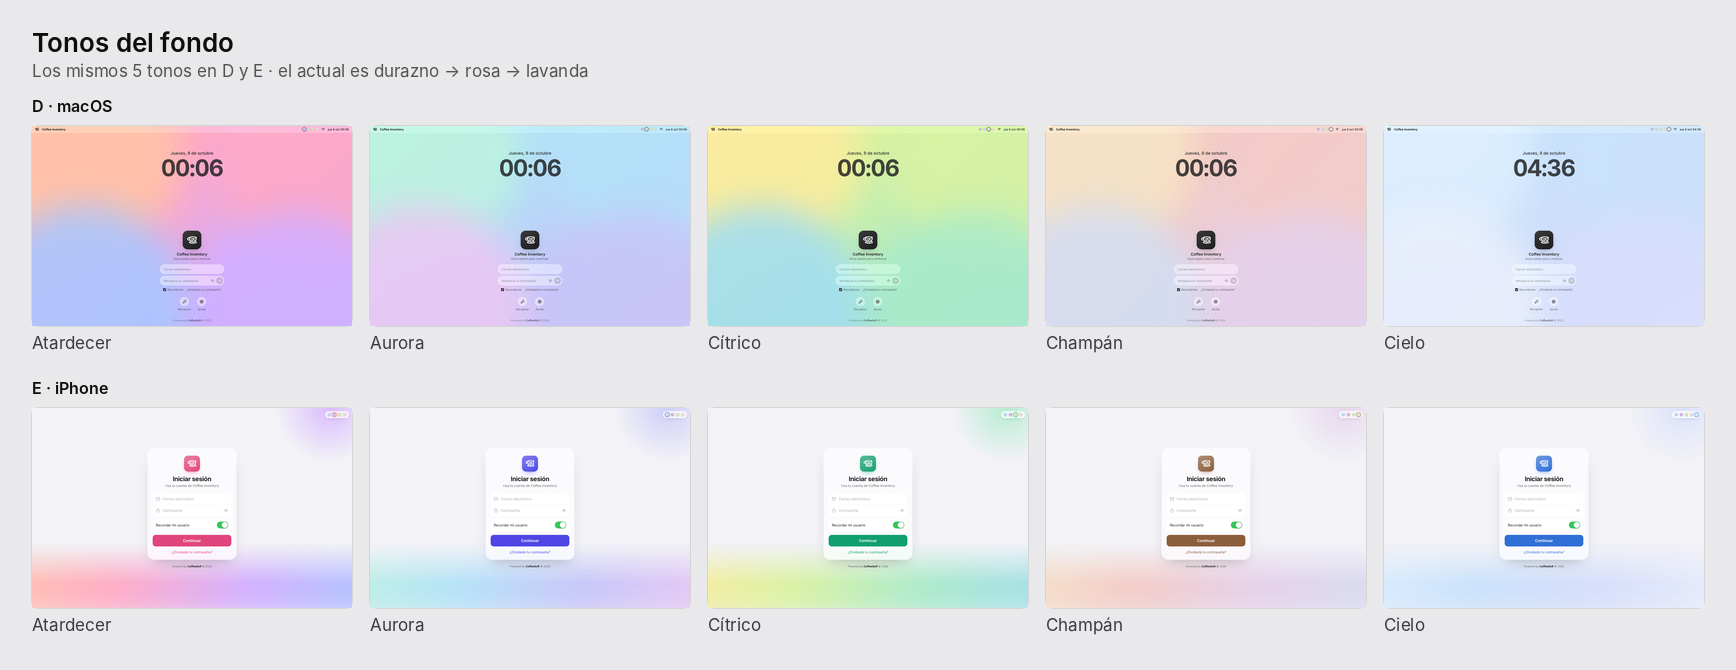
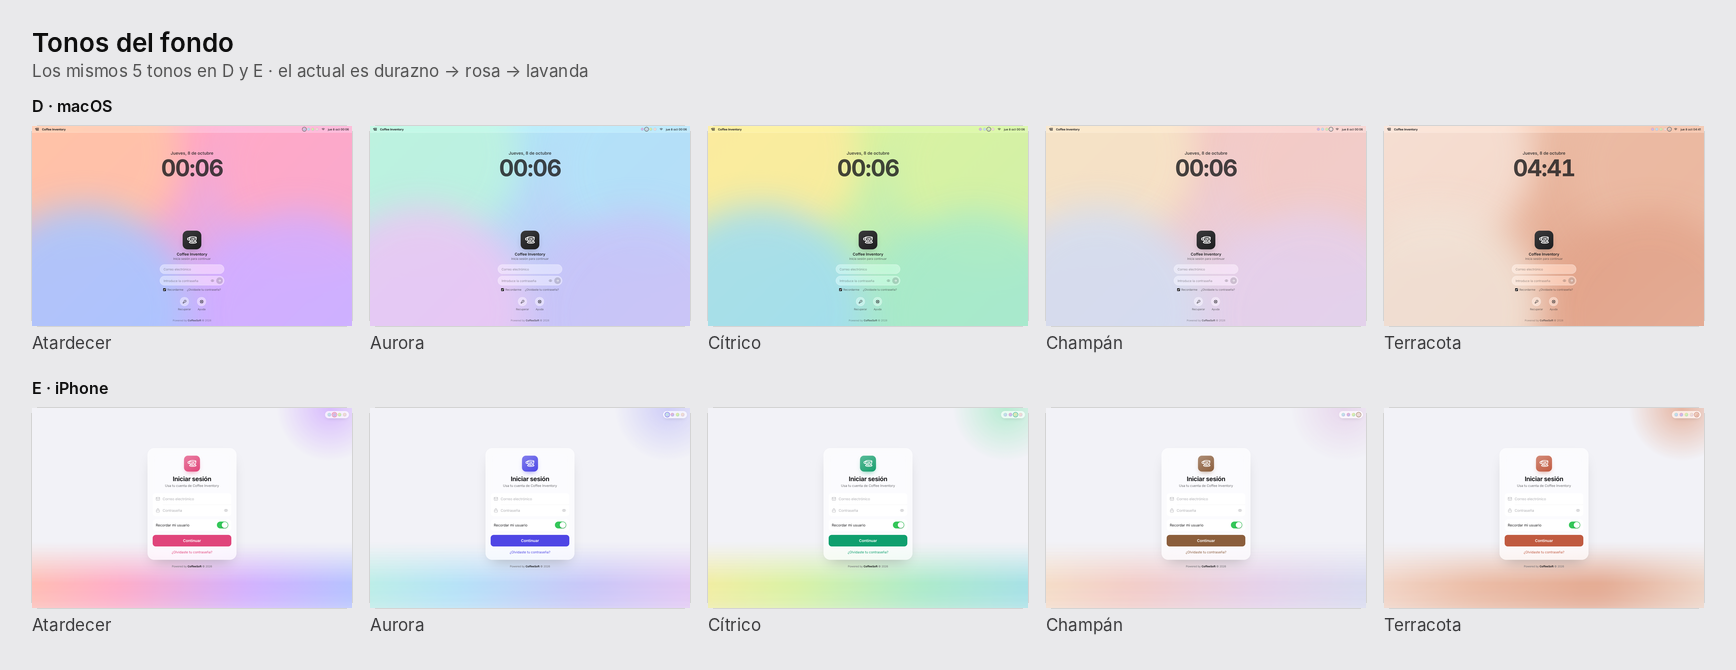
docs(inventory): tono Terracota en lugar de Cielo en los logins D y E
Arcilla clara, terracota y arena con el #C05A40 de la marca como acento.
El avatar de ejemplo toma el color del tono.

Claude-Session: https://claude.ai/code/session_01TNUyeHvp6K8aBBkezGxEN5

diff --git a/inventory/acceso/templates/login/login-d-macos.html b/inventory/acceso/templates/login/login-d-macos.html
@@ -6,7 +6,7 @@
     avatar, campos tipo píldora y el botón de flecha dentro de la contraseña.
     Con clave incorrecta el campo tiembla, como en macOS (solo CSS: :has(.is-invalid)).
 
-    Tonos: --t1..--t4 pintan el fondo y --accent el foco (Cielo = azul suave). El selector de la barra
+    Tonos: --t1..--t4 pintan el fondo y --accent el foco (Terracota = el acento de la marca). El selector de la barra
     es solo para elegir tono en la maqueta; en producción se fija uno.
 
     Contrato con acceso/src/js/index.js (no renombrar):
@@ -39,7 +39,7 @@
         :root[data-tone="aurora"]    { --t1: #BDF2DF; --t2: #B3E2F8; --t3: #C7C5F8; --t4: #EAC7F3; --accent: #4F46E5; }
         :root[data-tone="citrico"]   { --t1: #FBEB9E; --t2: #D9F2A2; --t3: #A9EAC9; --t4: #A2DDF0; --accent: #0F9F6E; }
         :root[data-tone="champan"]   { --t1: #F6E3C6; --t2: #F3CBC6; --t3: #E5D0EA; --t4: #D3DDF1; --accent: #8B5E3C; }
-        :root[data-tone="cielo"]     { --t1: #DCEEFF; --t2: #C9E2FB; --t3: #D6DDFB; --t4: #E9EEFB; --accent: #2F6FD6; }
+        :root[data-tone="terracota"] { --t1: #F5DED2; --t2: #EBBBA4; --t3: #E3A68D; --t4: #F1E2D6; --accent: #C05A40; }
 
         * { margin: 0; padding: 0; box-sizing: border-box; }
 
@@ -521,7 +521,7 @@
             { key: 'aurora',    name: 'Aurora',    a: '#BDF2DF', b: '#C7C5F8' },
             { key: 'citrico',   name: 'Cítrico',   a: '#FBEB9E', b: '#A9EAC9' },
             { key: 'champan',   name: 'Champán',   a: '#F6E3C6', b: '#E5D0EA' },
-            { key: 'cielo',     name: 'Cielo',     a: '#DCEEFF', b: '#C9E2FB' }
+            { key: 'terracota', name: 'Terracota', a: '#F5DED2', b: '#E3A68D' }
         ];
 
         function setTone(key) {
@@ -560,7 +560,7 @@
         if (new URLSearchParams(location.search).get('recordado') === '1') {
             $('usuario').value = 'maria@cafecentral.mx';
             $('emailField').hidden = true;
-            $('rememberedAvatar').style.background = '#E0457B';
+            $('rememberedAvatar').style.background = 'var(--accent)';
             $('rememberedName').textContent = 'María López';
             $('rememberedEmail').textContent = 'maria@cafecentral.mx';
             $('rememberedUser').hidden = false;

diff --git a/inventory/acceso/templates/login/login-e-ios.html b/inventory/acceso/templates/login/login-e-ios.html
@@ -40,7 +40,7 @@
         :root[data-tone="atardecer"] { --t1: #FFC3A8; --t2: #FFA9C6; --t3: #D2AEFF; --t4: #A9C6FF; --accent: #E0457B; }
         :root[data-tone="citrico"]   { --t1: #FBEB9E; --t2: #D9F2A2; --t3: #A9EAC9; --t4: #A2DDF0; --accent: #0F9F6E; }
         :root[data-tone="champan"]   { --t1: #F6E3C6; --t2: #F3CBC6; --t3: #E5D0EA; --t4: #D3DDF1; --accent: #8B5E3C; }
-        :root[data-tone="cielo"]     { --t1: #DCEEFF; --t2: #C9E2FB; --t3: #D6DDFB; --t4: #E9EEFB; --accent: #2F6FD6; }
+        :root[data-tone="terracota"] { --t1: #F5DED2; --t2: #EBBBA4; --t3: #E3A68D; --t4: #F1E2D6; --accent: #C05A40; }
 
         * { margin: 0; padding: 0; box-sizing: border-box; }
 
@@ -510,7 +510,7 @@
             { key: 'atardecer', name: 'Atardecer', a: '#FFA9C6', b: '#A9C6FF' },
             { key: 'citrico',   name: 'Cítrico',   a: '#FBEB9E', b: '#A9EAC9' },
             { key: 'champan',   name: 'Champán',   a: '#F6E3C6', b: '#E5D0EA' },
-            { key: 'cielo',     name: 'Cielo',     a: '#DCEEFF', b: '#C9E2FB' }
+            { key: 'terracota', name: 'Terracota', a: '#F5DED2', b: '#E3A68D' }
         ];
 
         function setTone(key) {
@@ -533,7 +533,7 @@
         if (new URLSearchParams(location.search).get('recordado') === '1') {
             $('usuario').value = 'maria@cafecentral.mx';
             $('emailField').hidden = true;
-            $('rememberedAvatar').style.background = '#4F46E5';
+            $('rememberedAvatar').style.background = 'var(--accent)';
             $('rememberedName').textContent = 'María López';
             $('rememberedEmail').textContent = 'maria@cafecentral.mx';
             $('rememberedUser').hidden = false;

diff --git a/inventory/acceso/templates/login/README.md b/inventory/acceso/templates/login/README.md
@@ -14,7 +14,7 @@ Maquetas estáticas para rediseñar `inventory/index.php`. Abren solas en el nav
 | `login-g-chatgpt.html` | Estilo ChatGPT: blanco sin tarjeta, campos tipo píldora y entrada en dos pasos (correo → contraseña con "Editar"). Modo oscuro del sistema. | Además `index.js`: el primer "Continuar" sin usuario recordado pasa al paso 2 en vez de enviar (`data-step` en `#form_login`) |
 
 D y E comparten 5 tonos de fondo (`data-tone` en `<html>`): **Atardecer**, **Aurora**,
-**Cítrico**, **Champán** y **Cielo** (azul suave). El selector de tonos es solo de la maqueta (también `?tono=aurora`
+**Cítrico**, **Champán** y **Terracota** (el `#C05A40` de la marca). El selector de tonos es solo de la maqueta (también `?tono=aurora`
 en la URL); en producción se fija uno. `?recordado=1` muestra el estado de usuario recordado
 y, en F y G, `?tema=dark` fuerza el modo oscuro.
 
